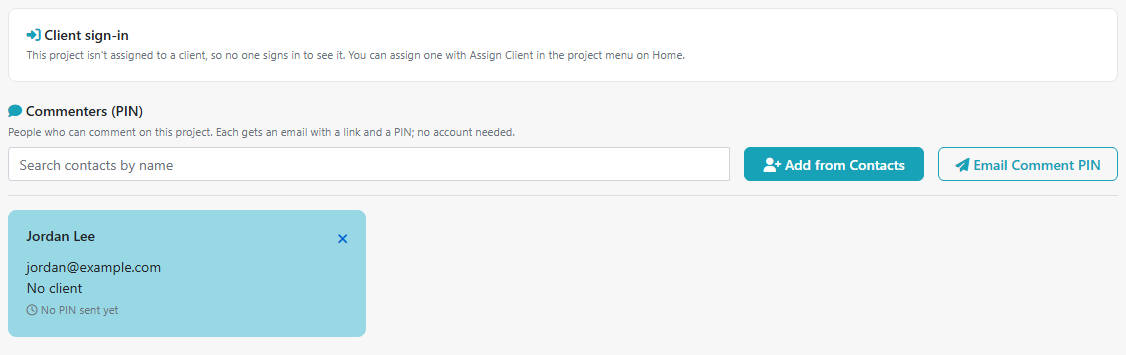
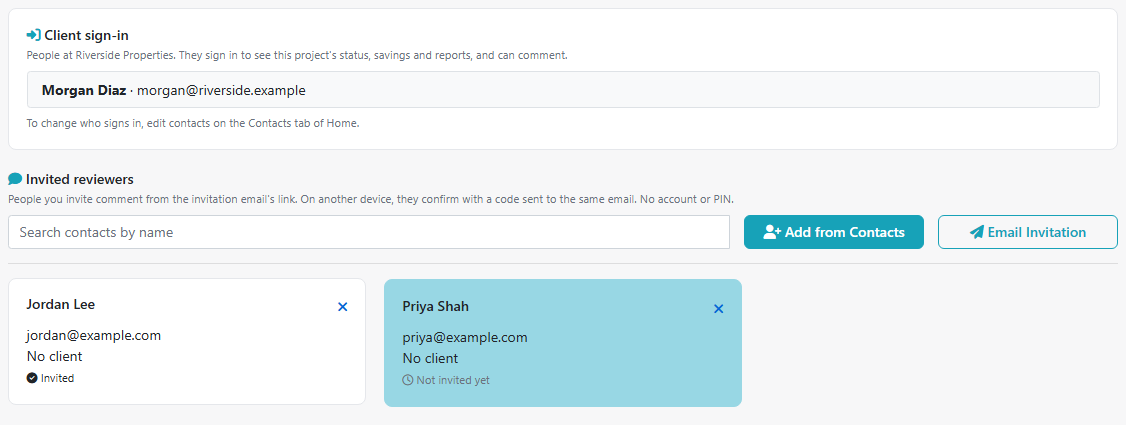
New screenshots: Project Team, New Project and BPF dialogs

Changed region(s): [[0.0, 0.2789, 0.9947, 0.9606], [0.0, 0.062, 0.6217, 0.2479]]

diff --git a/modelers/share/index.html b/modelers/share/index.html
@@ -1,1 +1,1 @@
-<!DOCTYPE html><html lang="en-US"><head><meta charset="UTF-8"><meta http-equiv="X-UA-Compatible" content="IE=Edge"><link rel="stylesheet" href="/assets/css/just-the-docs-default.css"><link rel="stylesheet" href="/assets/css/just-the-docs-head-nav.css" id="jtd-head-nav-stylesheet"><style id="jtd-nav-activation"> .site-nav > ul.nav-list:first-child > li > a, .site-nav > ul.nav-list:first-child > li > ul > li:not(:nth-child(6)) > a, .site-nav > ul.nav-list:first-child > li > ul > li > ul > li > a { background-image: none; } .site-nav > ul.nav-list:not(:first-child) a, .site-nav li.external a { background-image: none; } .site-nav > ul.nav-list:first-child > li:nth-child(3) > ul > li:nth-child(6) > a { font-weight: 600; text-decoration: none; }.site-nav > ul.nav-list:first-child > li:nth-child(3) > button svg, .site-nav > ul.nav-list:first-child > li:nth-child(3) > ul > li:nth-child(6) > button svg { transform: rotate(-90deg); }.site-nav > ul.nav-list:first-child > li.nav-list-item:nth-child(3) > ul.nav-list, .site-nav > ul.nav-list:first-child > li.nav-list-item:nth-child(3) > ul.nav-list > li.nav-list-item:nth-child(6) > ul.nav-list { display: block; }</style><script src="/assets/js/vendor/lunr.min.js"></script> <script src="/assets/js/just-the-docs.js"></script><meta name="viewport" content="width=device-width, initial-scale=1"><link rel="icon" href="/favicon.ico" type="image/x-icon"><title>Share and handle comments | InverseHub Help</title><meta name="generator" content="Jekyll v4.3.3" /><meta property="og:title" content="Share and handle comments" /><meta property="og:locale" content="en_US" /><meta name="description" content="Help for InverseHub and SimReader: upload eQUEST and EnergyPlus results, show energy code compliance and share energy modeling reports for review." /><meta property="og:description" content="Help for InverseHub and SimReader: upload eQUEST and EnergyPlus results, show energy code compliance and share energy modeling reports for review." /><link rel="canonical" href="https://help.inversehub.com/modelers/share/" /><meta property="og:url" content="https://help.inversehub.com/modelers/share/" /><meta property="og:site_name" content="InverseHub Help" /><meta property="og:type" content="website" /><meta name="twitter:card" content="summary" /><meta property="twitter:title" content="Share and handle comments" /> <script type="application/ld+json"> {"@context":"https://schema.org","@type":"WebPage","description":"Help for InverseHub and SimReader: upload eQUEST and EnergyPlus results, show energy code compliance and share energy modeling reports for review.","headline":"Share and handle comments","publisher":{"@type":"Organization","logo":{"@type":"ImageObject","url":"https://help.inversehub.com/assets/images/inversehub-logo.png"}},"url":"https://help.inversehub.com/modelers/share/"}</script><link rel="preconnect" href="https://fonts.googleapis.com"><link rel="preconnect" href="https://fonts.gstatic.com" crossorigin><link href="https://fonts.googleapis.com/css2?family=Rubik:wght@300;400;500;600;700&display=swap" rel="stylesheet"><body> <a class="skip-to-main" href="#main-content">Skip to main content</a> <svg xmlns="http://www.w3.org/2000/svg" class="d-none"> <symbol id="svg-link" viewBox="0 0 24 24"><title>Link</title><svg xmlns="http://www.w3.org/2000/svg" width="24" height="24" viewBox="0 0 24 24" fill="none" stroke="currentColor" stroke-width="2" stroke-linecap="round" stroke-linejoin="round" class="feather feather-link"><path d="M10 13a5 5 0 0 0 7.54.54l3-3a5 5 0 0 0-7.07-7.07l-1.72 1.71"></path><path d="M14 11a5 5 0 0 0-7.54-.54l-3 3a5 5 0 0 0 7.07 7.07l1.71-1.71"></path> </svg> </symbol> <symbol id="svg-menu" viewBox="0 0 24 24"><title>Menu</title><svg xmlns="http://www.w3.org/2000/svg" width="24" height="24" viewBox="0 0 24 24" fill="none" stroke="currentColor" stroke-width="2" stroke-linecap="round" stroke-linejoin="round" class="feather feather-menu"><line x1="3" y1="12" x2="21" y2="12"></line><line x1="3" y1="6" x2="21" y2="6"></line><line x1="3" y1="18" x2="21" y2="18"></line> </svg> </symbol> <symbol id="svg-arrow-right" viewBox="0 0 24 24"><title>Expand</title><svg xmlns="http://www.w3.org/2000/svg" width="24" height="24" viewBox="0 0 24 24" fill="none" stroke="currentColor" stroke-width="2" stroke-linecap="round" stroke-linejoin="round" class="feather feather-chevron-right"><polyline points="9 18 15 12 9 6"></polyline> </svg> </symbol> <symbol id="svg-external-link" width="24" height="24" viewBox="0 0 24 24" fill="none" stroke="currentColor" stroke-width="2" stroke-linecap="round" stroke-linejoin="round" class="feather feather-external-link"><title id="svg-external-link-title">(external link)</title><path d="M18 13v6a2 2 0 0 1-2 2H5a2 2 0 0 1-2-2V8a2 2 0 0 1 2-2h6"></path><polyline points="15 3 21 3 21 9"></polyline><line x1="10" y1="14" x2="21" y2="3"></line> </symbol> <symbol id="svg-doc" viewBox="0 0 24 24"><title>Document</title><svg xmlns="http://www.w3.org/2000/svg" width="24" height="24" viewBox="0 0 24 24" fill="none" stroke="currentColor" stroke-width="2" stroke-linecap="round" stroke-linejoin="round" class="feather feather-file"><path d="M13 2H6a2 2 0 0 0-2 2v16a2 2 0 0 0 2 2h12a2 2 0 0 0 2-2V9z"></path><polyline points="13 2 13 9 20 9"></polyline> </svg> </symbol> <symbol id="svg-search" viewBox="0 0 24 24"><title>Search</title><svg xmlns="http://www.w3.org/2000/svg" width="24" height="24" viewBox="0 0 24 24" fill="none" stroke="currentColor" stroke-width="2" stroke-linecap="round" stroke-linejoin="round" class="feather feather-search"> <circle cx="11" cy="11" r="8"></circle><line x1="21" y1="21" x2="16.65" y2="16.65"></line> </svg> </symbol> <symbol id="svg-copy" viewBox="0 0 16 16"><title>Copy</title><svg xmlns="http://www.w3.org/2000/svg" width="16" height="16" fill="currentColor" class="bi bi-clipboard" viewBox="0 0 16 16"><path d="M4 1.5H3a2 2 0 0 0-2 2V14a2 2 0 0 0 2 2h10a2 2 0 0 0 2-2V3.5a2 2 0 0 0-2-2h-1v1h1a1 1 0 0 1 1 1V14a1 1 0 0 1-1 1H3a1 1 0 0 1-1-1V3.5a1 1 0 0 1 1-1h1v-1z"/><path d="M9.5 1a.5.5 0 0 1 .5.5v1a.5.5 0 0 1-.5.5h-3a.5.5 0 0 1-.5-.5v-1a.5.5 0 0 1 .5-.5h3zm-3-1A1.5 1.5 0 0 0 5 1.5v1A1.5 1.5 0 0 0 6.5 4h3A1.5 1.5 0 0 0 11 2.5v-1A1.5 1.5 0 0 0 9.5 0h-3z"/> </svg> </symbol> <symbol id="svg-copied" viewBox="0 0 16 16"><title>Copied</title><svg xmlns="http://www.w3.org/2000/svg" width="16" height="16" fill="currentColor" class="bi bi-clipboard-check-fill" viewBox="0 0 16 16"><path d="M6.5 0A1.5 1.5 0 0 0 5 1.5v1A1.5 1.5 0 0 0 6.5 4h3A1.5 1.5 0 0 0 11 2.5v-1A1.5 1.5 0 0 0 9.5 0h-3Zm3 1a.5.5 0 0 1 .5.5v1a.5.5 0 0 1-.5.5h-3a.5.5 0 0 1-.5-.5v-1a.5.5 0 0 1 .5-.5h3Z"/><path d="M4 1.5H3a2 2 0 0 0-2 2V14a2 2 0 0 0 2 2h10a2 2 0 0 0 2-2V3.5a2 2 0 0 0-2-2h-1v1A2.5 2.5 0 0 1 9.5 5h-3A2.5 2.5 0 0 1 4 2.5v-1Zm6.854 7.354-3 3a.5.5 0 0 1-.708 0l-1.5-1.5a.5.5 0 0 1 .708-.708L7.5 10.793l2.646-2.647a.5.5 0 0 1 .708.708Z"/> </svg> </symbol> </svg><div class="side-bar"><div class="site-header" role="banner"> <a href="/" class="site-title lh-tight"><div class="site-logo" role="img" aria-label="InverseHub Help"></div></a> <button id="menu-button" class="site-button btn-reset" aria-label="Toggle menu" aria-pressed="false"> <svg viewBox="0 0 24 24" class="icon" aria-hidden="true"><use xlink:href="#svg-menu"></use></svg> </button></div><nav aria-label="Main" id="site-nav" class="site-nav"><ul class="nav-list"><li class="nav-list-item"><a href="/" class="nav-list-link">Home</a><li class="nav-list-item"><button class="nav-list-expander btn-reset" aria-label="toggle items in Get started category" aria-pressed="false"> <svg viewBox="0 0 24 24" aria-hidden="true"><use xlink:href="#svg-arrow-right"></use></svg> </button><a href="/get-started/" class="nav-list-link">Get started</a><ul class="nav-list"><li class="nav-list-item"><a href="/get-started/set-up/" class="nav-list-link">Set up</a><li class="nav-list-item"><a href="/first-project/" class="nav-list-link">Your first project</a></ul><li class="nav-list-item"><button class="nav-list-expander btn-reset" aria-label="toggle items in Modelers category" aria-pressed="false"> <svg viewBox="0 0 24 24" aria-hidden="true"><use xlink:href="#svg-arrow-right"></use></svg> </button><a href="/modelers/" class="nav-list-link">Modelers</a><ul class="nav-list"><li class="nav-list-item"><a href="/modelers/prepare-model-output/" class="nav-list-link">Prepare your model output</a><li class="nav-list-item"><a href="/modelers/projects-and-phases/" class="nav-list-link">Projects and phases</a><li class="nav-list-item"><a href="/modelers/simreader/" class="nav-list-link">Read and upload results with SimReader</a><li class="nav-list-item"><a href="/modelers/energy-model-inputs/" class="nav-list-link">Fill in Energy Model Inputs</a><li class="nav-list-item"><a href="/modelers/compliance/" class="nav-list-link">Show compliance</a><li class="nav-list-item"><a href="/modelers/share/" class="nav-list-link">Share and handle comments</a></ul><li class="nav-list-item"><a href="/reviewers/" class="nav-list-link">Reviewers</a><li class="nav-list-item"><a href="/clients/" class="nav-list-link">Clients</a><li class="nav-list-item"><button class="nav-list-expander btn-reset" aria-label="toggle items in Reference category" aria-pressed="false"> <svg viewBox="0 0 24 24" aria-hidden="true"><use xlink:href="#svg-arrow-right"></use></svg> </button><a href="/reference/" class="nav-list-link">Reference</a><ul class="nav-list"><li class="nav-list-item"><a href="/reference/energy-codes/" class="nav-list-link">Energy codes and compliance paths</a><li class="nav-list-item"><a href="/reference/calculations/" class="nav-list-link">How results are calculated</a><li class="nav-list-item"><a href="/reference/simreader-units/" class="nav-list-link">SimReader units</a><li class="nav-list-item"><a href="/reference/glossary/" class="nav-list-link">Glossary</a></ul><li class="nav-list-item"><a href="/troubleshooting/" class="nav-list-link">Troubleshooting</a><li class="nav-list-item"><a href="/account/" class="nav-list-link">Account and subscription</a><li class="nav-list-item"><a href="/docs/faq/" class="nav-list-link">FAQ</a><li class="nav-list-item"><a href="/docs/changelog/" class="nav-list-link">What's new</a><li class="nav-list-item"><a href="/docs/technical-support/" class="nav-list-link">Contact us</a></ul><ul class="nav-list"><li class="nav-list-item external"> <a href="https://inversenergy.com" class="nav-list-link external" > InversEnergy website <svg viewBox="0 0 24 24" aria-labelledby="svg-external-link-title"><use xlink:href="#svg-external-link"></use></svg> </a></ul></nav><footer class="site-footer ih-nav-footer"><p>Questions? <a href="mailto:support@inversenergy.com">support@inversenergy.com</a></p></footer></div><div class="main" id="top"><div id="main-header" class="main-header"><div class="search" role="search"><div class="search-input-wrap"> <input type="text" id="search-input" class="search-input" tabindex="0" placeholder="Search InverseHub Help" aria-label="Search InverseHub Help" autocomplete="off"> <label for="search-input" class="search-label"><svg viewBox="0 0 24 24" class="search-icon"><use xlink:href="#svg-search"></use></svg></label></div><div id="search-results" class="search-results"></div></div><nav aria-label="Auxiliary" class="aux-nav"><ul class="aux-nav-list"><li class="aux-nav-list-item"> <a href="https://inversehub.com" class="site-button" > Open InverseHub </a></ul></nav></div><div class="main-content-wrap"><nav aria-label="Breadcrumb" class="breadcrumb-nav"><ol class="breadcrumb-nav-list"><li class="breadcrumb-nav-list-item"><a href="/modelers/">Modelers</a><li class="breadcrumb-nav-list-item"><span>Share and handle comments</span></ol></nav><div id="main-content" class="main-content"><main><h1 class="no_toc" id="share-and-handle-comments"> <a href="#share-and-handle-comments" class="anchor-heading" aria-labelledby="share-and-handle-comments"><svg viewBox="0 0 16 16" aria-hidden="true"><use xlink:href="#svg-link"></use></svg></a> Share and handle comments</h1><p class="fs-6 fw-300">Share a phase as a link, collect comments, answer them, and send a PDF.</p><details open=""> <summary class="text-delta">On this page</summary><ul id="markdown-toc"><li><a href="#three-ways-to-share" id="markdown-toc-three-ways-to-share">Three ways to share</a><li><a href="#choose-who-can-comment" id="markdown-toc-choose-who-can-comment">Choose who can comment</a><li><a href="#invite-people-to-comment" id="markdown-toc-invite-people-to-comment">Invite people to comment</a><li><a href="#answer-comments" id="markdown-toc-answer-comments">Answer comments</a><li><a href="#download-a-pdf" id="markdown-toc-download-a-pdf">Download a PDF</a><li><a href="#choose-what-reviewers-see" id="markdown-toc-choose-what-reviewers-see">Choose what reviewers see</a></ul></details><hr /><h2 id="three-ways-to-share"> <a href="#three-ways-to-share" class="anchor-heading" aria-labelledby="three-ways-to-share"><svg viewBox="0 0 16 16" aria-hidden="true"><use xlink:href="#svg-link"></use></svg></a> Three ways to share</h2><div class="table-wrapper"><table><thead><tr><th style="text-align: left">You want them to<th style="text-align: left">Do this<th style="text-align: left">They need<tbody><tr><td style="text-align: left"><strong>View and comment</strong><td style="text-align: left"><strong>Copy Link</strong> at the top of the project page, then send the link<td style="text-align: left">Nothing. Anyone with the link can view it, and comments after confirming their email with a code. They can pass the link on.<tr><td style="text-align: left"><strong>Comment, invited by you</strong><td style="text-align: left">Email them an invitation from the <strong>Project Team</strong> tab<td style="text-align: left">The invitation’s <strong>Access Report</strong> button: they comment without a code. No account.<tr><td style="text-align: left"><strong>Follow all their projects</strong><td style="text-align: left">Invite your client’s contacts from the <strong>Contacts</strong> tab<td style="text-align: left">An InverseHub client account. See <a href="/clients/">Clients</a>.</table></div><p class="note">The link always shows the phase currently selected under <strong>Modeling Phase</strong> on your project page. If you switch to another phase later, people with the link see that one.</p><h2 id="choose-who-can-comment"> <a href="#choose-who-can-comment" class="anchor-heading" aria-labelledby="choose-who-can-comment"><svg viewBox="0 0 16 16" aria-hidden="true"><use xlink:href="#svg-link"></use></svg></a> Choose who can comment</h2><p>Your client, signed in, can always comment on their projects, with no extra step. For everyone else, the <strong>Copy Link</strong> dialog asks <strong>Who can comment</strong> through the link. Your choice is saved as soon as you pick it, and applies to the project’s link wherever it was sent:</p><ul><li><strong>Anyone with the link</strong>: they confirm their email with a code. New projects start here.<li><strong>My client and invited reviewers</strong>: the people on the <strong>Project Team</strong> tab, from their invitation or with a code sent to the email they were invited with.<li><strong>My client only</strong>: everyone else sees <strong>View only</strong> and can’t add comments. Comments already made stay on the <strong>Comments</strong> tab.</ul><h2 id="invite-people-to-comment"> <a href="#invite-people-to-comment" class="anchor-heading" aria-labelledby="invite-people-to-comment"><svg viewBox="0 0 16 16" aria-hidden="true"><use xlink:href="#svg-link"></use></svg></a> Invite people to comment</h2><ol><li>On the project page, open the <strong>Project Team</strong> tab.<li>Select <strong>Add from Contacts</strong> and choose the people. Add new people on the <strong>Contacts</strong> tab of your Home page first.<li>Select their cards (click a card to select it), then <strong>Email Invitation</strong>.</ol><p><img src="/images/inversehub-project-team.png" alt="The Project Team tab with Client sign-in, invited reviewers, Add from Contacts and a member card" /></p><p>Each person gets an email whose <strong>Access Report</strong> button lets them comment right away, for 90 days. On another device, or later, they confirm the email they were invited with by a code, so there’s no PIN to keep. Their card then shows <strong>Invited</strong>. With <strong>Anyone with the link</strong>, an invitation is optional.</p><h2 id="answer-comments"> <a href="#answer-comments" class="anchor-heading" aria-labelledby="answer-comments"><svg viewBox="0 0 16 16" aria-hidden="true"><use xlink:href="#svg-link"></use></svg></a> Answer comments</h2><p>Reviewers comment on a table cell. A comment icon then appears in that cell, and the <strong>Comments</strong> tab lists every comment of the phase. When a reviewer or client selects <strong>Send my comments to the modeler</strong>, you get one email listing their open comments, with a link to the project. Projects with open comments are also listed under <strong>Needs your reply</strong> on your <a href="/modelers/projects-and-phases/#your-home-tab">Home tab</a>.</p><ol><li>Select the comment to open it.<li>Type your reply and select <strong>Resolve</strong> to close it, or keep it open.<li><strong>Reopen</strong> brings back a resolved comment, with your reply kept.</ol><p>A <strong>general comment</strong>, on the whole report rather than one value, appears first on the <strong>Comments</strong> tab. Select <strong>Reply or resolve</strong> under it to answer it the same way.</p><p>The person who wrote the comment gets an email with your reply when you save a new or changed reply, and when you resolve the comment. Each comment shows the name and email its author confirmed.</p><h2 id="download-a-pdf"> <a href="#download-a-pdf" class="anchor-heading" aria-labelledby="download-a-pdf"><svg viewBox="0 0 16 16" aria-hidden="true"><use xlink:href="#svg-link"></use></svg></a> Download a PDF</h2><p>Select <strong>Download PDF</strong> at the top of the project page. The file is named “Project – Phase – date”. It shows the same sections as the review page, including the charts and cards you’ve switched on.</p><h2 id="choose-what-reviewers-see"> <a href="#choose-what-reviewers-see" class="anchor-heading" aria-labelledby="choose-what-reviewers-see"><svg viewBox="0 0 16 16" aria-hidden="true"><use xlink:href="#svg-link"></use></svg></a> Choose what reviewers see</h2><ul><li><strong>Charts</strong>: each monthly chart has a <strong>Shown</strong> / <strong>Hidden</strong> switch.<li><strong>Unmet Load Hours</strong>: hidden until you switch it on.<li><strong>Phase</strong>: reviewers see the phase selected on your project page. Select the phase to share before you send the link.</ul><p><strong>Next:</strong> <a href="/reviewers/">What reviewers see</a></p></main><hr><footer><p><a href="#top" id="back-to-top">Back to top</a></p><div class="ih-footer"><div class="ih-footer-brand"><strong>Inverse</strong>Hub <span>by InversEnergy, Inc.</span></div><div class="ih-footer-links"> <a href="https://inversehub.com">inversehub.com</a> <a href="/docs/technical-support/">Contact us</a> <a href="https://inversehub.com/Home/Privacy">Privacy Policy</a> <a href="https://inversehub.com/Home/TermOfUse">Terms of Service</a></div><p>&copy; 2017&ndash;2026 InversEnergy, Inc. &middot; 11 Nathan Pratt Drive, Concord, MA</p></div><div class="d-flex mt-2"><p class="text-small text-grey-dk-000 mb-0 mr-2"> Page last modified: <span class="d-inline-block">Oct 26 2026 at 12:00 AM</span>.</p></div></footer></div></div><div class="search-overlay"></div></div><script type="module"> import mermaid from 'https://cdn.jsdelivr.net/npm/mermaid@10.6.1/dist/mermaid.esm.min.mjs'; var config = {} ; mermaid.initialize(config); mermaid.run({ querySelector: '.language-mermaid', }); </script>
+<!DOCTYPE html><html lang="en-US"><head><meta charset="UTF-8"><meta http-equiv="X-UA-Compatible" content="IE=Edge"><link rel="stylesheet" href="/assets/css/just-the-docs-default.css"><link rel="stylesheet" href="/assets/css/just-the-docs-head-nav.css" id="jtd-head-nav-stylesheet"><style id="jtd-nav-activation"> .site-nav > ul.nav-list:first-child > li > a, .site-nav > ul.nav-list:first-child > li > ul > li:not(:nth-child(6)) > a, .site-nav > ul.nav-list:first-child > li > ul > li > ul > li > a { background-image: none; } .site-nav > ul.nav-list:not(:first-child) a, .site-nav li.external a { background-image: none; } .site-nav > ul.nav-list:first-child > li:nth-child(3) > ul > li:nth-child(6) > a { font-weight: 600; text-decoration: none; }.site-nav > ul.nav-list:first-child > li:nth-child(3) > button svg, .site-nav > ul.nav-list:first-child > li:nth-child(3) > ul > li:nth-child(6) > button svg { transform: rotate(-90deg); }.site-nav > ul.nav-list:first-child > li.nav-list-item:nth-child(3) > ul.nav-list, .site-nav > ul.nav-list:first-child > li.nav-list-item:nth-child(3) > ul.nav-list > li.nav-list-item:nth-child(6) > ul.nav-list { display: block; }</style><script src="/assets/js/vendor/lunr.min.js"></script> <script src="/assets/js/just-the-docs.js"></script><meta name="viewport" content="width=device-width, initial-scale=1"><link rel="icon" href="/favicon.ico" type="image/x-icon"><title>Share and handle comments | InverseHub Help</title><meta name="generator" content="Jekyll v4.3.3" /><meta property="og:title" content="Share and handle comments" /><meta property="og:locale" content="en_US" /><meta name="description" content="Help for InverseHub and SimReader: upload eQUEST and EnergyPlus results, show energy code compliance and share energy modeling reports for review." /><meta property="og:description" content="Help for InverseHub and SimReader: upload eQUEST and EnergyPlus results, show energy code compliance and share energy modeling reports for review." /><link rel="canonical" href="https://help.inversehub.com/modelers/share/" /><meta property="og:url" content="https://help.inversehub.com/modelers/share/" /><meta property="og:site_name" content="InverseHub Help" /><meta property="og:type" content="website" /><meta name="twitter:card" content="summary" /><meta property="twitter:title" content="Share and handle comments" /> <script type="application/ld+json"> {"@context":"https://schema.org","@type":"WebPage","description":"Help for InverseHub and SimReader: upload eQUEST and EnergyPlus results, show energy code compliance and share energy modeling reports for review.","headline":"Share and handle comments","publisher":{"@type":"Organization","logo":{"@type":"ImageObject","url":"https://help.inversehub.com/assets/images/inversehub-logo.png"}},"url":"https://help.inversehub.com/modelers/share/"}</script><link rel="preconnect" href="https://fonts.googleapis.com"><link rel="preconnect" href="https://fonts.gstatic.com" crossorigin><link href="https://fonts.googleapis.com/css2?family=Rubik:wght@300;400;500;600;700&display=swap" rel="stylesheet"><body> <a class="skip-to-main" href="#main-content">Skip to main content</a> <svg xmlns="http://www.w3.org/2000/svg" class="d-none"> <symbol id="svg-link" viewBox="0 0 24 24"><title>Link</title><svg xmlns="http://www.w3.org/2000/svg" width="24" height="24" viewBox="0 0 24 24" fill="none" stroke="currentColor" stroke-width="2" stroke-linecap="round" stroke-linejoin="round" class="feather feather-link"><path d="M10 13a5 5 0 0 0 7.54.54l3-3a5 5 0 0 0-7.07-7.07l-1.72 1.71"></path><path d="M14 11a5 5 0 0 0-7.54-.54l-3 3a5 5 0 0 0 7.07 7.07l1.71-1.71"></path> </svg> </symbol> <symbol id="svg-menu" viewBox="0 0 24 24"><title>Menu</title><svg xmlns="http://www.w3.org/2000/svg" width="24" height="24" viewBox="0 0 24 24" fill="none" stroke="currentColor" stroke-width="2" stroke-linecap="round" stroke-linejoin="round" class="feather feather-menu"><line x1="3" y1="12" x2="21" y2="12"></line><line x1="3" y1="6" x2="21" y2="6"></line><line x1="3" y1="18" x2="21" y2="18"></line> </svg> </symbol> <symbol id="svg-arrow-right" viewBox="0 0 24 24"><title>Expand</title><svg xmlns="http://www.w3.org/2000/svg" width="24" height="24" viewBox="0 0 24 24" fill="none" stroke="currentColor" stroke-width="2" stroke-linecap="round" stroke-linejoin="round" class="feather feather-chevron-right"><polyline points="9 18 15 12 9 6"></polyline> </svg> </symbol> <symbol id="svg-external-link" width="24" height="24" viewBox="0 0 24 24" fill="none" stroke="currentColor" stroke-width="2" stroke-linecap="round" stroke-linejoin="round" class="feather feather-external-link"><title id="svg-external-link-title">(external link)</title><path d="M18 13v6a2 2 0 0 1-2 2H5a2 2 0 0 1-2-2V8a2 2 0 0 1 2-2h6"></path><polyline points="15 3 21 3 21 9"></polyline><line x1="10" y1="14" x2="21" y2="3"></line> </symbol> <symbol id="svg-doc" viewBox="0 0 24 24"><title>Document</title><svg xmlns="http://www.w3.org/2000/svg" width="24" height="24" viewBox="0 0 24 24" fill="none" stroke="currentColor" stroke-width="2" stroke-linecap="round" stroke-linejoin="round" class="feather feather-file"><path d="M13 2H6a2 2 0 0 0-2 2v16a2 2 0 0 0 2 2h12a2 2 0 0 0 2-2V9z"></path><polyline points="13 2 13 9 20 9"></polyline> </svg> </symbol> <symbol id="svg-search" viewBox="0 0 24 24"><title>Search</title><svg xmlns="http://www.w3.org/2000/svg" width="24" height="24" viewBox="0 0 24 24" fill="none" stroke="currentColor" stroke-width="2" stroke-linecap="round" stroke-linejoin="round" class="feather feather-search"> <circle cx="11" cy="11" r="8"></circle><line x1="21" y1="21" x2="16.65" y2="16.65"></line> </svg> </symbol> <symbol id="svg-copy" viewBox="0 0 16 16"><title>Copy</title><svg xmlns="http://www.w3.org/2000/svg" width="16" height="16" fill="currentColor" class="bi bi-clipboard" viewBox="0 0 16 16"><path d="M4 1.5H3a2 2 0 0 0-2 2V14a2 2 0 0 0 2 2h10a2 2 0 0 0 2-2V3.5a2 2 0 0 0-2-2h-1v1h1a1 1 0 0 1 1 1V14a1 1 0 0 1-1 1H3a1 1 0 0 1-1-1V3.5a1 1 0 0 1 1-1h1v-1z"/><path d="M9.5 1a.5.5 0 0 1 .5.5v1a.5.5 0 0 1-.5.5h-3a.5.5 0 0 1-.5-.5v-1a.5.5 0 0 1 .5-.5h3zm-3-1A1.5 1.5 0 0 0 5 1.5v1A1.5 1.5 0 0 0 6.5 4h3A1.5 1.5 0 0 0 11 2.5v-1A1.5 1.5 0 0 0 9.5 0h-3z"/> </svg> </symbol> <symbol id="svg-copied" viewBox="0 0 16 16"><title>Copied</title><svg xmlns="http://www.w3.org/2000/svg" width="16" height="16" fill="currentColor" class="bi bi-clipboard-check-fill" viewBox="0 0 16 16"><path d="M6.5 0A1.5 1.5 0 0 0 5 1.5v1A1.5 1.5 0 0 0 6.5 4h3A1.5 1.5 0 0 0 11 2.5v-1A1.5 1.5 0 0 0 9.5 0h-3Zm3 1a.5.5 0 0 1 .5.5v1a.5.5 0 0 1-.5.5h-3a.5.5 0 0 1-.5-.5v-1a.5.5 0 0 1 .5-.5h3Z"/><path d="M4 1.5H3a2 2 0 0 0-2 2V14a2 2 0 0 0 2 2h10a2 2 0 0 0 2-2V3.5a2 2 0 0 0-2-2h-1v1A2.5 2.5 0 0 1 9.5 5h-3A2.5 2.5 0 0 1 4 2.5v-1Zm6.854 7.354-3 3a.5.5 0 0 1-.708 0l-1.5-1.5a.5.5 0 0 1 .708-.708L7.5 10.793l2.646-2.647a.5.5 0 0 1 .708.708Z"/> </svg> </symbol> </svg><div class="side-bar"><div class="site-header" role="banner"> <a href="/" class="site-title lh-tight"><div class="site-logo" role="img" aria-label="InverseHub Help"></div></a> <button id="menu-button" class="site-button btn-reset" aria-label="Toggle menu" aria-pressed="false"> <svg viewBox="0 0 24 24" class="icon" aria-hidden="true"><use xlink:href="#svg-menu"></use></svg> </button></div><nav aria-label="Main" id="site-nav" class="site-nav"><ul class="nav-list"><li class="nav-list-item"><a href="/" class="nav-list-link">Home</a><li class="nav-list-item"><button class="nav-list-expander btn-reset" aria-label="toggle items in Get started category" aria-pressed="false"> <svg viewBox="0 0 24 24" aria-hidden="true"><use xlink:href="#svg-arrow-right"></use></svg> </button><a href="/get-started/" class="nav-list-link">Get started</a><ul class="nav-list"><li class="nav-list-item"><a href="/get-started/set-up/" class="nav-list-link">Set up</a><li class="nav-list-item"><a href="/first-project/" class="nav-list-link">Your first project</a></ul><li class="nav-list-item"><button class="nav-list-expander btn-reset" aria-label="toggle items in Modelers category" aria-pressed="false"> <svg viewBox="0 0 24 24" aria-hidden="true"><use xlink:href="#svg-arrow-right"></use></svg> </button><a href="/modelers/" class="nav-list-link">Modelers</a><ul class="nav-list"><li class="nav-list-item"><a href="/modelers/prepare-model-output/" class="nav-list-link">Prepare your model output</a><li class="nav-list-item"><a href="/modelers/projects-and-phases/" class="nav-list-link">Projects and phases</a><li class="nav-list-item"><a href="/modelers/simreader/" class="nav-list-link">Read and upload results with SimReader</a><li class="nav-list-item"><a href="/modelers/energy-model-inputs/" class="nav-list-link">Fill in Energy Model Inputs</a><li class="nav-list-item"><a href="/modelers/compliance/" class="nav-list-link">Show compliance</a><li class="nav-list-item"><a href="/modelers/share/" class="nav-list-link">Share and handle comments</a></ul><li class="nav-list-item"><a href="/reviewers/" class="nav-list-link">Reviewers</a><li class="nav-list-item"><a href="/clients/" class="nav-list-link">Clients</a><li class="nav-list-item"><button class="nav-list-expander btn-reset" aria-label="toggle items in Reference category" aria-pressed="false"> <svg viewBox="0 0 24 24" aria-hidden="true"><use xlink:href="#svg-arrow-right"></use></svg> </button><a href="/reference/" class="nav-list-link">Reference</a><ul class="nav-list"><li class="nav-list-item"><a href="/reference/energy-codes/" class="nav-list-link">Energy codes and compliance paths</a><li class="nav-list-item"><a href="/reference/calculations/" class="nav-list-link">How results are calculated</a><li class="nav-list-item"><a href="/reference/simreader-units/" class="nav-list-link">SimReader units</a><li class="nav-list-item"><a href="/reference/glossary/" class="nav-list-link">Glossary</a></ul><li class="nav-list-item"><a href="/troubleshooting/" class="nav-list-link">Troubleshooting</a><li class="nav-list-item"><a href="/account/" class="nav-list-link">Account and subscription</a><li class="nav-list-item"><a href="/docs/faq/" class="nav-list-link">FAQ</a><li class="nav-list-item"><a href="/docs/changelog/" class="nav-list-link">What's new</a><li class="nav-list-item"><a href="/docs/technical-support/" class="nav-list-link">Contact us</a></ul><ul class="nav-list"><li class="nav-list-item external"> <a href="https://inversenergy.com" class="nav-list-link external" > InversEnergy website <svg viewBox="0 0 24 24" aria-labelledby="svg-external-link-title"><use xlink:href="#svg-external-link"></use></svg> </a></ul></nav><footer class="site-footer ih-nav-footer"><p>Questions? <a href="mailto:support@inversenergy.com">support@inversenergy.com</a></p></footer></div><div class="main" id="top"><div id="main-header" class="main-header"><div class="search" role="search"><div class="search-input-wrap"> <input type="text" id="search-input" class="search-input" tabindex="0" placeholder="Search InverseHub Help" aria-label="Search InverseHub Help" autocomplete="off"> <label for="search-input" class="search-label"><svg viewBox="0 0 24 24" class="search-icon"><use xlink:href="#svg-search"></use></svg></label></div><div id="search-results" class="search-results"></div></div><nav aria-label="Auxiliary" class="aux-nav"><ul class="aux-nav-list"><li class="aux-nav-list-item"> <a href="https://inversehub.com" class="site-button" > Open InverseHub </a></ul></nav></div><div class="main-content-wrap"><nav aria-label="Breadcrumb" class="breadcrumb-nav"><ol class="breadcrumb-nav-list"><li class="breadcrumb-nav-list-item"><a href="/modelers/">Modelers</a><li class="breadcrumb-nav-list-item"><span>Share and handle comments</span></ol></nav><div id="main-content" class="main-content"><main><h1 class="no_toc" id="share-and-handle-comments"> <a href="#share-and-handle-comments" class="anchor-heading" aria-labelledby="share-and-handle-comments"><svg viewBox="0 0 16 16" aria-hidden="true"><use xlink:href="#svg-link"></use></svg></a> Share and handle comments</h1><p class="fs-6 fw-300">Share a phase as a link, collect comments, answer them, and send a PDF.</p><details open=""> <summary class="text-delta">On this page</summary><ul id="markdown-toc"><li><a href="#three-ways-to-share" id="markdown-toc-three-ways-to-share">Three ways to share</a><li><a href="#choose-who-can-comment" id="markdown-toc-choose-who-can-comment">Choose who can comment</a><li><a href="#invite-people-to-comment" id="markdown-toc-invite-people-to-comment">Invite people to comment</a><li><a href="#answer-comments" id="markdown-toc-answer-comments">Answer comments</a><li><a href="#download-a-pdf" id="markdown-toc-download-a-pdf">Download a PDF</a><li><a href="#choose-what-reviewers-see" id="markdown-toc-choose-what-reviewers-see">Choose what reviewers see</a></ul></details><hr /><h2 id="three-ways-to-share"> <a href="#three-ways-to-share" class="anchor-heading" aria-labelledby="three-ways-to-share"><svg viewBox="0 0 16 16" aria-hidden="true"><use xlink:href="#svg-link"></use></svg></a> Three ways to share</h2><div class="table-wrapper"><table><thead><tr><th style="text-align: left">You want them to<th style="text-align: left">Do this<th style="text-align: left">They need<tbody><tr><td style="text-align: left"><strong>View and comment</strong><td style="text-align: left"><strong>Copy Link</strong> at the top of the project page, then send the link<td style="text-align: left">Nothing. Anyone with the link can view it, and comments after confirming their email with a code. They can pass the link on.<tr><td style="text-align: left"><strong>Comment, invited by you</strong><td style="text-align: left">Email them an invitation from the <strong>Project Team</strong> tab<td style="text-align: left">The invitation’s <strong>Access Report</strong> button: they comment without a code. No account.<tr><td style="text-align: left"><strong>Follow all their projects</strong><td style="text-align: left">Invite your client’s contacts from the <strong>Contacts</strong> tab<td style="text-align: left">An InverseHub client account. See <a href="/clients/">Clients</a>.</table></div><p class="note">The link always shows the phase currently selected under <strong>Modeling Phase</strong> on your project page. If you switch to another phase later, people with the link see that one.</p><h2 id="choose-who-can-comment"> <a href="#choose-who-can-comment" class="anchor-heading" aria-labelledby="choose-who-can-comment"><svg viewBox="0 0 16 16" aria-hidden="true"><use xlink:href="#svg-link"></use></svg></a> Choose who can comment</h2><p>Your client, signed in, can always comment on their projects, with no extra step. For everyone else, the <strong>Copy Link</strong> dialog asks <strong>Who can comment</strong> through the link. Your choice is saved as soon as you pick it, and applies to the project’s link wherever it was sent:</p><ul><li><strong>Anyone with the link</strong>: they confirm their email with a code. New projects start here.<li><strong>My client and invited reviewers</strong>: the people on the <strong>Project Team</strong> tab, from their invitation or with a code sent to the email they were invited with.<li><strong>My client only</strong>: everyone else sees <strong>View only</strong> and can’t add comments. Comments already made stay on the <strong>Comments</strong> tab.</ul><h2 id="invite-people-to-comment"> <a href="#invite-people-to-comment" class="anchor-heading" aria-labelledby="invite-people-to-comment"><svg viewBox="0 0 16 16" aria-hidden="true"><use xlink:href="#svg-link"></use></svg></a> Invite people to comment</h2><ol><li>On the project page, open the <strong>Project Team</strong> tab.<li>Select <strong>Add from Contacts</strong> and choose the people. Add new people on the <strong>Contacts</strong> tab of your Home page first.<li>Select their cards (click a card to select it), then <strong>Email Invitation</strong>.</ol><p><img src="/images/inversehub-project-team.png" alt="The Project Team tab: Client sign-in with the client's contact, then Invited reviewers with Add from Contacts, Email Invitation, and two cards, one Invited and one Not invited yet" /></p><p>Each person gets an email whose <strong>Access Report</strong> button lets them comment right away, for 90 days. On another device, or later, they confirm the email they were invited with by a code, so there’s no PIN to keep. Their card then shows <strong>Invited</strong>. With <strong>Anyone with the link</strong>, an invitation is optional.</p><h2 id="answer-comments"> <a href="#answer-comments" class="anchor-heading" aria-labelledby="answer-comments"><svg viewBox="0 0 16 16" aria-hidden="true"><use xlink:href="#svg-link"></use></svg></a> Answer comments</h2><p>Reviewers comment on a table cell. A comment icon then appears in that cell, and the <strong>Comments</strong> tab lists every comment of the phase. When a reviewer or client selects <strong>Send my comments to the modeler</strong>, you get one email listing their open comments, with a link to the project. Projects with open comments are also listed under <strong>Needs your reply</strong> on your <a href="/modelers/projects-and-phases/#your-home-tab">Home tab</a>.</p><ol><li>Select the comment to open it.<li>Type your reply and select <strong>Resolve</strong> to close it, or keep it open.<li><strong>Reopen</strong> brings back a resolved comment, with your reply kept.</ol><p>A <strong>general comment</strong>, on the whole report rather than one value, appears first on the <strong>Comments</strong> tab. Select <strong>Reply or resolve</strong> under it to answer it the same way.</p><p>The person who wrote the comment gets an email with your reply when you save a new or changed reply, and when you resolve the comment. Each comment shows the name and email its author confirmed.</p><h2 id="download-a-pdf"> <a href="#download-a-pdf" class="anchor-heading" aria-labelledby="download-a-pdf"><svg viewBox="0 0 16 16" aria-hidden="true"><use xlink:href="#svg-link"></use></svg></a> Download a PDF</h2><p>Select <strong>Download PDF</strong> at the top of the project page. The file is named “Project – Phase – date”. It shows the same sections as the review page, including the charts and cards you’ve switched on.</p><h2 id="choose-what-reviewers-see"> <a href="#choose-what-reviewers-see" class="anchor-heading" aria-labelledby="choose-what-reviewers-see"><svg viewBox="0 0 16 16" aria-hidden="true"><use xlink:href="#svg-link"></use></svg></a> Choose what reviewers see</h2><ul><li><strong>Charts</strong>: each monthly chart has a <strong>Shown</strong> / <strong>Hidden</strong> switch.<li><strong>Unmet Load Hours</strong>: hidden until you switch it on.<li><strong>Phase</strong>: reviewers see the phase selected on your project page. Select the phase to share before you send the link.</ul><p><strong>Next:</strong> <a href="/reviewers/">What reviewers see</a></p></main><hr><footer><p><a href="#top" id="back-to-top">Back to top</a></p><div class="ih-footer"><div class="ih-footer-brand"><strong>Inverse</strong>Hub <span>by InversEnergy, Inc.</span></div><div class="ih-footer-links"> <a href="https://inversehub.com">inversehub.com</a> <a href="/docs/technical-support/">Contact us</a> <a href="https://inversehub.com/Home/Privacy">Privacy Policy</a> <a href="https://inversehub.com/Home/TermOfUse">Terms of Service</a></div><p>&copy; 2017&ndash;2026 InversEnergy, Inc. &middot; 11 Nathan Pratt Drive, Concord, MA</p></div><div class="d-flex mt-2"><p class="text-small text-grey-dk-000 mb-0 mr-2"> Page last modified: <span class="d-inline-block">Oct 26 2026 at 12:00 AM</span>.</p></div></footer></div></div><div class="search-overlay"></div></div><script type="module"> import mermaid from 'https://cdn.jsdelivr.net/npm/mermaid@10.6.1/dist/mermaid.esm.min.mjs'; var config = {} ; mermaid.initialize(config); mermaid.run({ querySelector: '.language-mermaid', }); </script>
